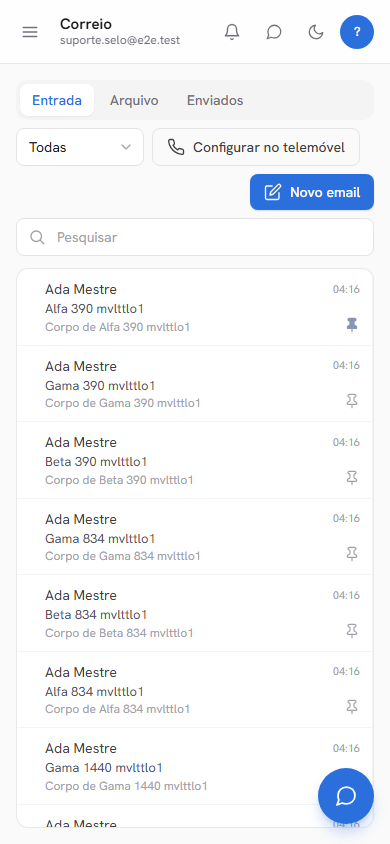
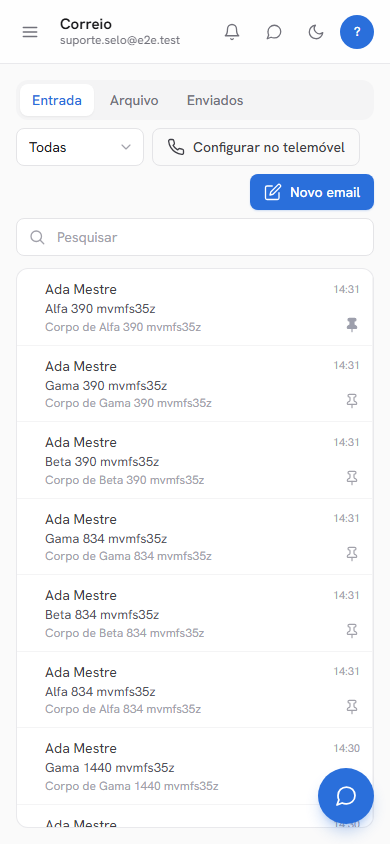
feat(correio): campanhas escondidas (FEATURES.campaigns = false) — fora do menu, das rotas, do Admin e da árvore da equipa
Pedido do dono (2026-10-24): "ainda não quero isso disponível". O código e a API ficam; voltar a mostrar = pôr a flag a
true e reactivar os testes marcados com esse motivo. As permissões já guardadas não se perdem.

diff --git a/tests/unit/campanhasEscondidas.test.ts b/tests/unit/campanhasEscondidas.test.ts
@@ -1,0 +1,55 @@
+import { describe, expect, it } from "vitest";
+import { FEATURES } from "../../src/lib/features";
+import { SUBMENU } from "../../src/lib/navigation";
+import { fullAccess, isFeatureHiddenNode, serializeGrants, visibleTree, type TreeNode } from "../../src/lib/teamTree";
+
+// FEATURES.campaigns = false (dono 2026-10-24): "as campanhas quero que escondas no backoffice".
+const node = (key: string, label: string, over: Partial<TreeNode> = {}): TreeNode => ({
+  key,
+  label,
+  levels: ["view", "edit"],
+  action: false,
+  storable: true,
+  available: true,
+  children: [],
+  ...over,
+});
+
+const TREE: TreeNode[] = [
+  node("correio", "Correio", {
+    levels: [],
+    storable: false,
+    children: [
+      node("correio.caixa", "Caixa"),
+      node("correio.campanhas", "Campanhas", { children: [node("correio.campanhas.enviar", "Enviar", { action: true, levels: ["edit"] })] }),
+      node("correio.contactos", "Contactos"),
+    ],
+  }),
+];
+
+describe("Campanhas escondidas (FEATURES.campaigns = false)", () => {
+  it("a flag está desligada", () => {
+    expect(FEATURES.campaigns).toBe(false);
+  });
+
+  it("o submenu do Correio não tem a entrada «Campanhas»; Contactos fica", () => {
+    const ids = SUBMENU["/correio"].map((s) => s.id);
+    expect(ids).not.toContain("campanhas");
+    expect(ids).toContain("contactos");
+  });
+
+  it("a árvore da Equipa e do convite não mostra correio.campanhas nem o seu filho", () => {
+    const keys: string[] = [];
+    const walk = (ns: TreeNode[]) => ns.forEach((n) => (keys.push(n.key), walk(n.children)));
+    walk(visibleTree(TREE));
+    expect(keys).toEqual(["correio", "correio.caixa", "correio.contactos"]);
+    expect(isFeatureHiddenNode("correio.campanhas.enviar")).toBe(true);
+    expect(isFeatureHiddenNode("correio.campanhasX")).toBe(false);
+  });
+
+  it("«Acesso total» do convite não dá campanhas, mas as permissões já guardadas não se perdem ao gravar", () => {
+    expect(Object.keys(fullAccess(TREE))).toEqual(["correio.caixa", "correio.contactos"]);
+    const saved = { "correio.caixa": "edit", "correio.campanhas": "edit", "correio.campanhas.enviar": "edit" } as const;
+    expect(serializeGrants(TREE, { ...saved }).map((g) => g.key)).toEqual(["correio.caixa", "correio.campanhas", "correio.campanhas.enviar"]);
+  });
+});

diff --git a/tests/e2e/campanhas-escondidas.spec.ts b/tests/e2e/campanhas-escondidas.spec.ts
@@ -1,0 +1,40 @@
+import { test, expect } from "@playwright/test";
+import { loginAs } from "./fixtures/login";
+
+/**
+ * FEATURES.campaigns = false (dono 2026-10-24): o Correio não tem o separador «Campanhas» e as rotas
+ * `/correio/campanhas*` redireccionam para o Correio. Nas 3 larguras, com captura.
+ */
+test.use({ storageState: { cookies: [], origins: [] } });
+
+const SIZES = [
+  { w: 1440, h: 900 },
+  { w: 834, h: 1112 },
+  { w: 390, h: 844 },
+];
+
+for (const { w, h } of SIZES) {
+  test.describe(`Correio sem Campanhas (${w}px)`, () => {
+    test.use({ viewport: { width: w, height: h } });
+
+    test("/correio/campanhas e /nova redireccionam para o Correio, sem scroll horizontal", async ({ page, context }) => {
+      await loginAs(context, "correio@e2e.local");
+      for (const r of ["/correio/campanhas", "/correio/campanhas/nova"]) {
+        await page.goto(r);
+        await expect(page).toHaveURL(/\/correio$/, { timeout: 15_000 });
+        await expect(page.getByTestId("campaigns-locked")).toHaveCount(0);
+      }
+      await expect(page.getByTestId("correio-caixa").or(page.getByTestId("mail-not-configured")).or(page.getByTestId("mail-no-mailbox"))).toBeVisible({ timeout: 15_000 });
+      expect(await page.evaluate(() => document.documentElement.scrollWidth - document.documentElement.clientWidth)).toBeLessThanOrEqual(0);
+      await page.screenshot({ path: `.design/ronda-grande/capturas/campanhas-escondidas-${w}.png` });
+    });
+
+    test("o menu do Correio não tem «Campanhas»; Contactos continua", async ({ page, context }) => {
+      test.skip(w < 1024, "abaixo de lg o menu é uma gaveta (o redirect acima cobre o acesso directo)");
+      await loginAs(context, "correio@e2e.local");
+      await page.goto("/correio");
+      await expect(page.getByRole("navigation").getByText("Contactos", { exact: true }).first()).toBeVisible({ timeout: 15_000 });
+      await expect(page.getByRole("navigation").getByText("Campanhas", { exact: true })).toHaveCount(0);
+    });
+  });
+}

diff --git a/tests/unit/AdminEmailModal.test.tsx b/tests/unit/AdminEmailModal.test.tsx
@@ -588,8 +588,16 @@ describe("AdminEmailModal — domínio próprio (fase 7)", () => {
 });
 
 // ── Fase 9: news. das campanhas ─────────────────────────────────────────────────────────────────────────────────
+// FEATURES.campaigns = false (dono 2026-10-24): a secção news. está escondida; os testes que a exercitam ficam skip.
 describe("AdminEmailModal — Preparar campanhas (news.)", () => {
-  it("domínio próprio verificado sem news.: mostra «Preparar campanhas (news.)» e chama POST …/news", () => {
+  it("FEATURES.campaigns = false: domínio próprio verificado não mostra a secção news.", () => {
+    getMock.mockReturnValue({ data: twoDomains({ domain: { ...OWN, news: null }, domains: [SUB, { ...OWN, news: null }] }), isLoading: false, isError: false });
+    renderModal();
+    expect(screen.queryByTestId("news-section")).toBeNull();
+    expect(screen.queryByRole("button", { name: "Preparar campanhas (news.)" })).toBeNull();
+  });
+
+  it.skip("domínio próprio verificado sem news.: mostra «Preparar campanhas (news.)» e chama POST …/news [FEATURES.campaigns = false (dono 2026-10-24)]", () => {
     getMock.mockReturnValue({ data: twoDomains({ domain: { ...OWN, news: null } , domains: [SUB, { ...OWN, news: null }] }), isLoading: false, isError: false });
     renderModal();
     expect(screen.getByTestId("news-section")).toHaveTextContent("news.tifas.pt");
@@ -597,7 +605,7 @@ describe("AdminEmailModal — Preparar campanhas (news.)", () => {
     expect(mutates.news).toHaveBeenCalledWith({ userId: "u1" });
   });
 
-  it("com news. criado: mostra o nome, o estado e os registos com ✓/✗", () => {
+  it.skip("com news. criado [FEATURES.campaigns = false (dono 2026-10-24)]: mostra o nome, o estado e os registos com ✓/✗", () => {
     const news = {
       domain: "news.tifas.pt",
       configured: true,

diff --git a/tests/unit/mailLib.test.ts b/tests/unit/mailLib.test.ts
@@ -115,7 +115,7 @@ describe("Correio — datas e deep-links", () => {
 
 describe("Correio — navegação e permissões", () => {
   it("o submenu do Correio tem a Caixa atrás de VIEW_EMAIL e da folha correio.caixa", () => {
-    expect(allowedSubitems("/correio", () => true).map((s) => s.label)).toEqual(["Caixa", "Campanhas", "Contactos"]);
+    expect(allowedSubitems("/correio", () => true).map((s) => s.label)).toEqual(["Caixa", "Contactos"]); // sem «Campanhas»: FEATURES.campaigns = false (dono 2026-10-24)
     expect(allowedSubitems("/correio", () => false)).toEqual([]);
     expect(memberSubitems("/correio", (k) => k === "correio.caixa")).toHaveLength(1);
     expect(memberSubitems("/correio", () => false)).toHaveLength(0);
@@ -124,10 +124,10 @@ describe("Correio — navegação e permissões", () => {
     expect(allowedSubitems("/conteudos", () => true).some((s) => s.label === "Correio")).toBe(false);
     expect(allowedSubitems("/correio", () => true).some((s) => s.label === "Emails")).toBe(false);
   });
-  it("Campanhas: folha correio.campanhas na lista e na ficha; um membro só com ela vê só esse subitem", () => {
+  it("Campanhas (escondidas, FEATURES.campaigns = false): a folha da rota fica; um membro só com ela não vê subitem nenhum", () => {
     expect(leafForPath("/correio/campanhas")).toBe("correio.campanhas");
     expect(leafForPath("/correio/campanhas/abc")).toBe("correio.campanhas");
-    expect(memberSubitems("/correio", ((k: string) => k === "correio.campanhas") as any).map((i) => i.id)).toEqual(["campanhas"]);
+    expect(memberSubitems("/correio", ((k: string) => k === "correio.campanhas") as any).map((i) => i.id)).toEqual([]);
   });
   it("CR-09: com o módulo Correio a «Caixa» vê-se sempre a um membro (a caixa pessoal não depende de correio.caixa); o resto continua por folha", () => {
     const opts = { personalMailbox: true };

diff --git a/src/lib/teamTree.ts b/src/lib/teamTree.ts
@@ -9,6 +9,8 @@
  *     utilizador nunca chegar a um 422.
  */
 
+import { FEATURES } from "./features";
+
 export type TeamLevel = "view" | "edit";
 
 export interface TreeNode {
@@ -176,13 +178,21 @@ export function levelLabel(n: Pick<TreeNode, "levelLabels">, level: TeamLevel): 
 }
 
 /**
+ * Nós escondidos por `FEATURES` (dono 2026-10-24: Campanhas): não aparecem na árvore nem no convite, mas os nós e as
+ * permissões já guardadas ficam intactos (o mapa de grants não os perde ao gravar).
+ */
+export function isFeatureHiddenNode(key: string): boolean {
+  return !FEATURES.campaigns && (key === "correio.campanhas" || key.startsWith("correio.campanhas."));
+}
+
+/**
  * A árvore que o editor mostra: sem os nós que o plano do tenant não inclui (`available: false`) — decisão do dono,
  * não aparecem de todo — e sem os agrupadores que fiquem sem nada seleccionável debaixo.
  */
 export function visibleTree(tree: TreeNode[]): TreeNode[] {
   const out: TreeNode[] = [];
   for (const n of tree) {
-    if (!n.available) continue;
+    if (!n.available || isFeatureHiddenNode(n.key)) continue;
     const children = visibleTree(n.children ?? []);
     if (!n.storable && children.length === 0) continue;
     out.push({ ...n, children });
@@ -305,7 +315,7 @@ export function fullAccess(tree: readonly TreeNode[]): GrantMap {
   const g: GrantMap = {};
   for (const top of tree) {
     for (const n of subtreeOf(top)) {
-      if (selectable(n) && !n.excludeFromFullAccess) g[n.key] = giveLevelOf(n) ?? maxLevelOf(n);
+      if (selectable(n) && !n.excludeFromFullAccess && !isFeatureHiddenNode(n.key)) g[n.key] = giveLevelOf(n) ?? maxLevelOf(n);
     }
   }
   return g;

diff --git a/src/App.tsx b/src/App.tsx
@@ -211,8 +211,9 @@ function App() {
         <Route path="/faturacao" element={<Faturacao />} />
         {/* Correio (B42): o item da sidebar só existe com VIEW_EMAIL; o guard do Shell trata o resto. */}
         <Route path="/correio" element={<Correio />} />
-        <Route path="/correio/campanhas" element={<CorreioCampanhas />} />
-        <Route path="/correio/campanhas/:campaignId" element={<CorreioCampanha />} />
+        {/* Campanhas escondidas (lib/features.ts): com a flag a false, o link antigo cai no Correio. */}
+        <Route path="/correio/campanhas" element={FEATURES.campaigns ? <CorreioCampanhas /> : <Navigate to="/correio" replace />} />
+        <Route path="/correio/campanhas/:campaignId" element={FEATURES.campaigns ? <CorreioCampanha /> : <Navigate to="/correio" replace />} />
         <Route path="/correio/contactos" element={<CorreioContactos />} />
         <Route path="/mensagens" element={<Mensagens view="clientes" />} />
         <Route path="/mensagens/backoffice" element={<Mensagens view="backoffice" />} />

diff --git a/src/components/adminEmail/DomainBlock.tsx b/src/components/adminEmail/DomainBlock.tsx
@@ -4,6 +4,7 @@ import type { EmailDnsRecord } from "../../gen/backoffice/types/EmailDnsRecord.j
 import type { TenantEmailDomain } from "../../gen/backoffice/types/TenantEmailDomain.js";
 import { DnsRecordsTable } from "./DnsRecordsTable";
 import { NewsSection } from "./EmailStatusCard";
+import { FEATURES } from "../../lib/features";
 
 export type DomainKind = "platform" | "own";
 
@@ -135,7 +136,7 @@ export function DomainBlock({
       )}
 
       {/* Campanhas (fase 9): só no domínio próprio verificado. Abrem quando o domínio E o news. estão verificados. */}
-      {isOwn && verified && <NewsSection d={d} busy={busy} pending={newsPending} onPrepare={onPrepareNews} />}
+      {FEATURES.campaigns && isOwn && verified && <NewsSection d={d} busy={busy} pending={newsPending} onPrepare={onPrepareNews} />}
 
       {mailOn && activeBoxes.length > 0 && (
         <div className="rounded-xl border border-zinc-200/80 dark:border-zinc-800 p-3 space-y-2" data-testid="mailboxes-move">

diff --git a/src/lib/navigation.ts b/src/lib/navigation.ts
@@ -13,6 +13,8 @@
  * DESIGN_BRIEF.md`) estão todas neste mapa.
  */
 
+import { FEATURES } from "./features";
+
 export interface SubmenuItem {
   id: string;
   label: string;
@@ -112,7 +114,10 @@ export const SUBMENU: Record<string, SubmenuItem[]> = {
   // O item chama-se "Correio" (não "Email"): "Emails" já é um subitem de Conteúdos e os nomes repetidos partem os testes.
   "/correio": [
     { id: "caixa", label: "Caixa", path: "/correio", perm: "VIEW_EMAIL", leaf: "correio.caixa" },
-    { id: "campanhas", label: "Campanhas", path: "/correio/campanhas", perm: "VIEW_EMAIL", leaf: "correio.campanhas" },
+    // Escondido por `FEATURES.campaigns` (dono 2026-10-24).
+    ...(FEATURES.campaigns
+      ? [{ id: "campanhas", label: "Campanhas", path: "/correio/campanhas", perm: "VIEW_EMAIL", leaf: "correio.campanhas" }]
+      : []),
     { id: "contactos", label: "Contactos", path: "/correio/contactos", perm: "VIEW_EMAIL", leaf: "correio.contactos" },
   ],
   "/conteudos": [

diff --git a/tests/unit/navigationDetalhe.test.ts b/tests/unit/navigationDetalhe.test.ts
@@ -2,7 +2,10 @@ import { describe, expect, it } from "vitest";
 import { SUBMENU, pathInSubitems } from "../../src/lib/navigation";
 
 describe("pathInSubitems — páginas de detalhe debaixo de um subitem", () => {
-  const correio = SUBMENU["/correio"];
+  // Campanhas escondidas (FEATURES.campaigns = false, dono 2026-10-24): o subitem já não está no SUBMENU real,
+  // por isso o comportamento genérico prova-se com um subitem sintético (a lógica é a mesma quando a flag voltar).
+  const campanhas = { id: "campanhas", label: "Campanhas", path: "/correio/campanhas" };
+  const correio = [...SUBMENU["/correio"], campanhas];
   it("aceita o path do subitem e o detalhe debaixo dele (assistente de campanhas)", () => {
     expect(pathInSubitems("/correio/campanhas", "/correio", correio)).toBe(true);
     expect(pathInSubitems("/correio/campanhas/nova", "/correio", correio)).toBe(true);

diff --git a/src/lib/features.ts b/src/lib/features.ts
@@ -8,8 +8,14 @@
  * - `googleCalendar`: só o cartão "Google Calendar" em Admin → Integrações.
  *   A API continua com os endpoints; só a UI sai. O cartão do feed `.ics` da
  *   Agenda (subscrever no telemóvel) é independente e aparece sempre (B59 F8).
+ * - `campaigns`: as Campanhas de email do Correio (dono 2026-10-24: "as campanhas quero
+ *   que escondas no backoffice, ainda não quero isso disponível"). Com `false`: sem
+ *   separador, `/correio/campanhas*` redirecciona para `/correio`, sem os blocos de
+ *   `news.<domínio>` no Admin e sem os nós `correio.campanhas*` na árvore da Equipa
+ *   nem no convite (as permissões já guardadas ficam). Contactos continua visível.
  */
 export const FEATURES = {
   signup: false,
   googleCalendar: false,
+  campaigns: false,
 } as const;

diff --git a/tests/e2e/matriz-actores.spec.ts b/tests/e2e/matriz-actores.spec.ts
@@ -31,7 +31,8 @@ const ADMIN_ROUTES = [
   "/admin", "/admin/permissoes", "/admin/componentes", "/admin/tokens", "/admin/dominios",
   "/admin/faturacao", "/admin/integracoes", "/admin/atividade", "/admin/sistema",
 ];
-const CORREIO_ROUTES = ["/correio", "/correio/campanhas", "/correio/contactos"];
+// «/correio/campanhas» fora da matriz: FEATURES.campaigns = false (dono 2026-10-24) — redirecciona para todos.
+const CORREIO_ROUTES = ["/correio", "/correio/contactos"];
 const FINANCEIRO = ["/financeiro", "/financeiro/agenda", "/financeiro/loja", "/financeiro/ginasio", "/financeiro/despesas"];
 const LOJA = ["/loja", "/loja/encomendas", "/loja/categorias"];
 const AGENDA = ["/agenda", "/agenda/marcacoes", "/agenda/servicos", "/agenda/profissionais", "/agenda/config"];

diff --git a/tests/e2e/b59f7-trial-segmento.spec.ts b/tests/e2e/b59f7-trial-segmento.spec.ts
@@ -42,6 +42,7 @@ for (const { w, h } of SIZES) {
     });
 
     test("CR-34: o segmento «Sócios activos» diz «Subscritos com subscrição activa e conta confirmada»", async ({ page, context }) => {
+      test.skip(true, "FEATURES.campaigns = false (dono 2026-10-24)");
       await loginAs(context, "correio@e2e.local");
       // O seed não tem domínio verificado (assistente bloqueado): abre-se o assistente com o estado simulado.
       await page.route("**/mail/campaigns/status", (route) =>
